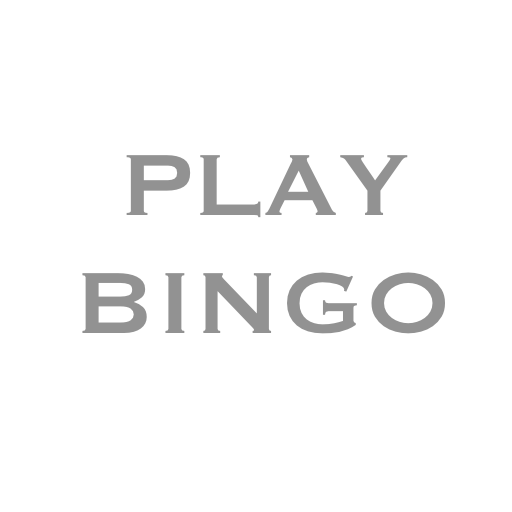
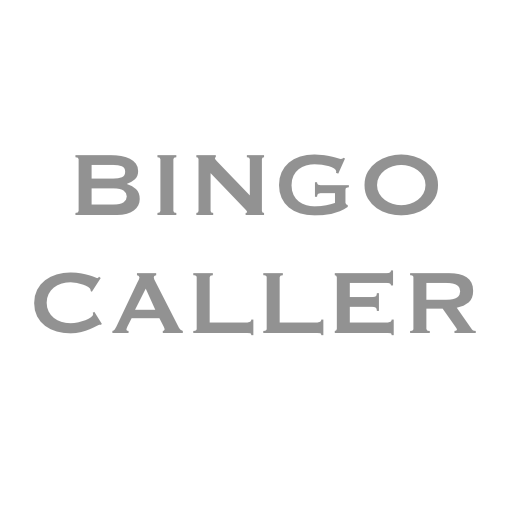
rename from play bingo to bingo caller - to avoid clashes with playing a song

Changed region(s): [[0.0625, 0.5312, 0.9375, 0.6562], [0.125, 0.2812, 0.875, 0.4375]]

diff --git a/readme.md b/readme.md
@@ -1,5 +1,10 @@
-Questions?
+# TODO
+- do not repeat numbers
+- ability to start new game
+- ability to repeat last number
+- ability to change maximum ball - fixed at 75 currently
 
+# Questions?
 - how to have a dev and prod version from same code?
 - update alexa info from claudia/command line?
 
